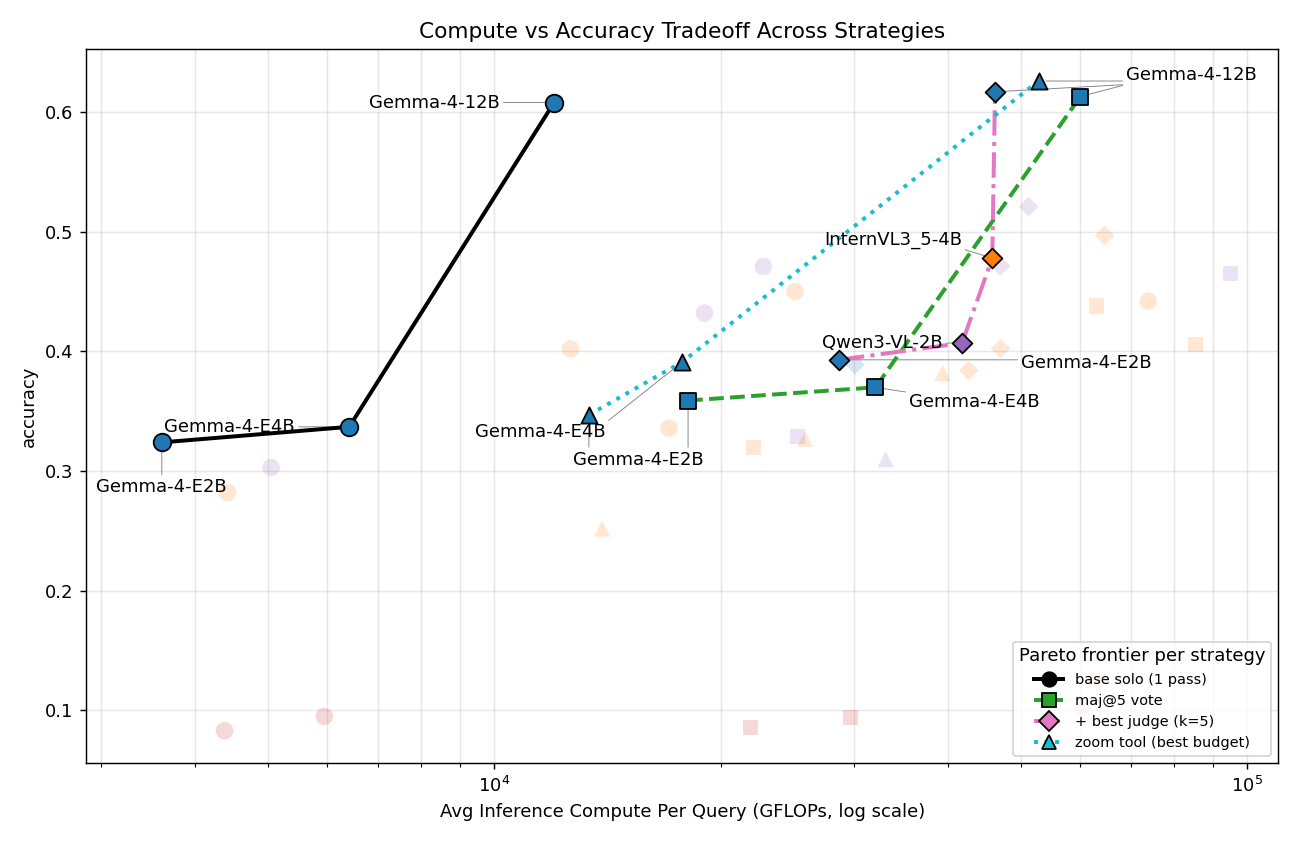
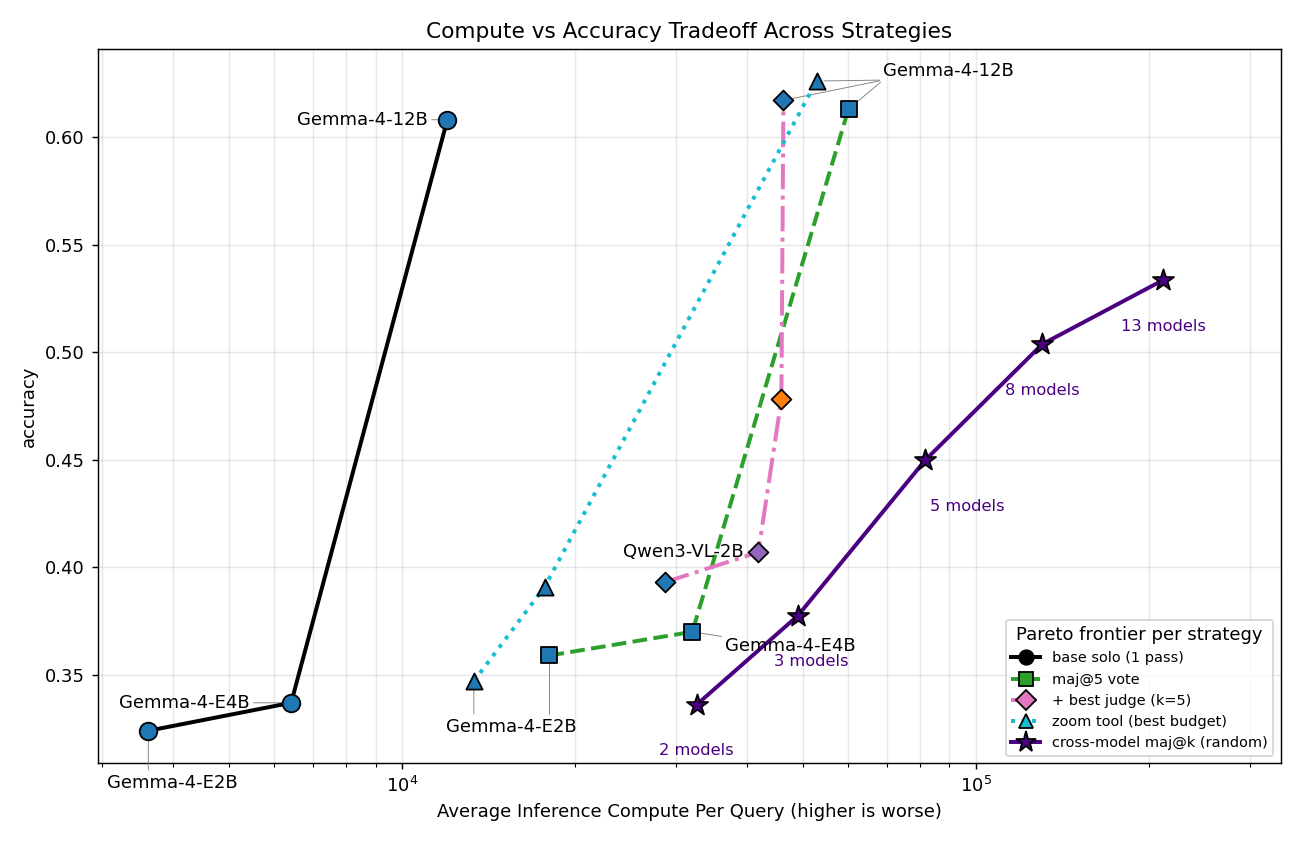
update friontier

diff --git a/report/index.html b/report/index.html
@@ -26,7 +26,7 @@
     table.sum .rowh{min-width:150px}
     table.kv{border-collapse:collapse;margin:.5rem 0} table.kv td,table.kv th{border:1px solid #ccc;padding:4px 12px}
     .grid2{display:flex;gap:1.5rem;flex-wrap:wrap;align-items:flex-start}
-    .example-grid{display:grid;grid-template-columns:minmax(0,3fr) minmax(0,3fr);gap:0.25rem;align-items:start;margin:2rem 0}
+    .example-grid{display:flex;flex-wrap:wrap;justify-content:center;align-items:flex-start;gap:2rem;margin:2rem 0}
     .example-grid figure,.plot-wrap{margin:0;text-align:center}
     .example-grid img{width:100%;max-width:520px;height:205px;object-fit:cover}
     .figcap{max-width:520px;margin:.45rem auto 2rem}
@@ -79,7 +79,7 @@ a:hover{text-decoration-color:#111}
 .note{color:#444;font-style:normal}
 .mx td.diag,.rollout-step{border-color:#111}
 /* show the full CharXiv/CountBench example photos instead of a cropped strip */
-.example-grid img{height:auto;object-fit:contain;max-width:100%;display:block;margin-inline:auto}
+.example-grid img{height:auto;object-fit:contain;max-width:100%;width:auto;display:block;margin-inline:auto}
 /* let the methods diagram span the full text column */
 div:has(> img[src$="methods.svg"]){margin:2rem 0!important}
 div:has(> img[src$="methods.svg"]) img{width:100%;height:auto}
@@ -132,12 +132,12 @@ So that leaves us with open source, local models. In particular, I'm most intere
 
 <div class=example-grid>
     <figure>
-        <img src='figures/charxiv_ex.jpg' style='max-width:520px'>
-        <figcaption class='note figcap'><b>CharXiv:</b> <i>"At epoch 60, which training method has a higher adversarial accuracy?"</i><br><b>Ground truth</b>: Accelerated DAT</figcaption>
+        <img src='figures/charxiv_ex.jpg' style='max-width:440px'>
+        <figcaption class='note figcap' style='max-width:440px'><b>CharXiv:</b> <i>"At epoch 60, which training method has a higher adversarial accuracy?"</i><br><b>Ground truth</b>: Accelerated DAT</figcaption>
     </figure>
     <figure>
-        <img src='figures/countbench_ex.jpg' style='max-width:55%'>
-        <figcaption class='note figcap' style='max-width:55%'><b>CountBench:</b> <i>"How many spoons are there in the image?"</i><br>
+        <img src='figures/countbench_ex.jpg' style='max-width:230px'>
+        <figcaption class='note figcap' style='max-width:230px'><b>CountBench:</b> <i>"How many spoons are there in the image?"</i><br>
             <b>Ground truth: </b>6</figcaption>
     </figure>
 </div>

diff --git a/vlm/combined_tradeoff.py b/vlm/combined_tradeoff.py
@@ -28,6 +28,7 @@ import maj_tradeoff as MJ        # collect -> {model: [(compute,acc) k=1..5]}
 import vision_flops as VF        # vision-encoder GFLOPs
 
 ZOOM_BUDGETS = [2, 4, 8]         # zoom crop budgets swept; per model we keep the best-accuracy one
+MM_KS = [2, 3, 5, 8, 13]         # ensemble sizes plotted for the cross-MODEL random-vote line
 
 DATASETS = ["charxiv", "countbench"]
 FIGDIR = "report/figures/tradeoff"
@@ -68,6 +69,40 @@ def collect_zoom(ds, budgets=ZOOM_BUDGETS):
             if m not in best or acc > best[m][0]:
                 best[m] = (acc, comp)
     return {m: (comp, acc) for m, (acc, comp) in best.items()}
+
+
+def collect_model_majority(ds):
+    """Cross-MODEL random majority-vote line: a few (k, per-query GFLOPs, accuracy) points.
+    Unlike the per-model strategies, this votes ONE base answer from each of k DIFFERENT models
+    (see vlm/model_majority.py). Accuracy at k is maj_at_k_random[k-1] -- the expected vote
+    accuracy over a random k-model subset. Compute is the matching expected per-query cost of k
+    random models = k * (mean single-model whole-dataset GFLOPs) / n_problems."""
+    f = f"vlm/result/model_majority/{ds}/metrics.json"
+    if not os.path.exists(f):
+        return None
+    m = json.load(open(f)); md = m["metadata"]
+    M, P = md.get("n_models"), md.get("n_problems")
+    total = md.get("total_ensemble_gflops")
+    rnd = m.get("maj_at_k_random")
+    if not (M and P and total and rnd):
+        return None
+    per_model = total / M                              # mean single-model whole-dataset GFLOPs
+    return [(k, k * per_model / P, rnd[k - 1]) for k in MM_KS if k <= M]
+
+
+def average_mm(per_ds_mm):
+    """Average the cross-model line across datasets, aligned by ensemble size k."""
+    dss = [d for d in per_ds_mm if per_ds_mm[d]]
+    by_k = {}
+    for d in dss:
+        for k, c, a in per_ds_mm[d]:
+            by_k.setdefault(k, []).append((c, a))
+    out = []
+    for k in MM_KS:
+        vals = by_k.get(k)
+        if vals and len(vals) == len(dss):
+            out.append((k, sum(c for c, _ in vals) / len(vals), sum(a for _, a in vals) / len(vals)))
+    return out
 
 
 def collect(ds):
@@ -112,7 +147,11 @@ COLLAPSE = {
 }
 
 # (strategy, model-substring) label to suppress: the marker/frontier point stays, just no text.
-OMIT_LABELS = [("judge", "Qwen3-VL-4B")]       # declutter the crowded best-judge region
+OMIT_LABELS = [("judge", "Qwen3-VL-4B"),       # declutter the crowded best-judge region
+               ("judge", "InternVL3_5-4B"), ("judge", "gemma-4-E2B"),
+               ("judge", "gemma-4-E4B"),
+               ("zoom", "gemma-4-E4B"), ("zoom", "InternVL3_5-4B"),
+               ("maj5", "InternVL3_5-4B")]
 
 # (strategy, model-substring) -> which side of the marker the label sits on ("left"/"right"),
 # overriding the defaults (judge -> left, everything else -> right of the point).
@@ -126,6 +165,8 @@ LABEL_SIDE = {
 # gap-factor is the log-x divisor/multiplier -> smaller = closer to the marker.
 LABEL_PIN = {
     ("judge", "Qwen3-VL-2B"): ("left", 1.06),
+    ("judge", "Qwen3-VL-8B"): ("left", 1.05),      # snug to the left of its diamond
+    ("maj5", "Qwen3-VL-2B"): ("left", 1.05),       # snug to the left of its square
 }
 # extra vertical nudge (accuracy units, +up/-down) for specific labels, applied after side placement.
 LABEL_DY = {
@@ -133,7 +174,7 @@ LABEL_DY = {
 }
 
 
-def render(ds, data, title=None, ymin=None):
+def render(ds, data, title=None, ymin=None, mm=None):
     fig, ax = plt.subplots(figsize=(10, 6.5))
     order = sorted(data, key=lambda m: (R.FAM_ORDER.get(R.family(m), 4), R.size(m)))
 
@@ -155,12 +196,12 @@ def render(ds, data, title=None, ymin=None):
             v = data[m][key]
             if v is None:
                 continue
-            on = m in onfr
-            ax.scatter(v[0], v[1], s=sz, marker=mk, alpha=FULL if on else FADED,
-                       zorder=5 if on else 3, color=T.fam_color(m),
-                       edgecolor="k" if on else "none")
+            if m not in onfr:             # only draw on-frontier points; hide the rest entirely
+                continue
+            ax.scatter(v[0], v[1], s=sz, marker=mk, alpha=FULL,
+                       zorder=5, color=T.fam_color(m), edgecolor="k")
             pxs.append(v[0]); pys.append(v[1])
-            if on:                        # label only the models on this frontier
+            if True:                      # label only the models on this frontier
                 # collapsed models: stash each near-coincident point; one shared label is built
                 # after the loop at the centroid, with a leader line fanning out to every point.
                 rule = next((keys for sub, keys in COLLAPSE.items() if sub in m), None)
@@ -168,12 +209,19 @@ def render(ds, data, title=None, ymin=None):
                     collapse_pts.setdefault(m, []).append((v[0], v[1]))
                     continue
                 # base labels are PINNED to the left of the far-left frontier line (kept out of
-                # adjust_text, which otherwise bounces the edge ones back to the right). gemma-4-E2B
-                # sits at the very left edge with no room, so it goes just BELOW its marker instead.
+                # adjust_text, which otherwise bounces the edge ones back to the right). The two
+                # left-edge models (gemma-4-E2B, Qwen3-VL-2B) have no room on the left, so they go
+                # to the RIGHT of their markers (below / above-right) to stay on the plot.
                 if key == "base":
                     if "gemma-4-E2B" in m:
-                        txt = ax.text(v[0], v[1] - 0.03, name(m), fontsize=10,
+                        txt = ax.text(v[0] * 1.1, v[1] - 0.02, name(m), fontsize=10,
                                       ha="center", va="top", zorder=6)
+                    elif "Qwen3-VL-2B" in m:
+                        txt = ax.text(v[0] / 1.02, v[1] + 0.015, name(m), fontsize=10,
+                                      ha="right", va="bottom", zorder=6)
+                    elif "gemma-4-12B" in m:
+                        txt = ax.text(v[0] / 1.08, v[1], name(m), fontsize=10,
+                                      ha="right", va="center", zorder=6)
                     else:
                         txt = ax.text(v[0] / 1.18, v[1], name(m), fontsize=10,
                                       ha="right", va="center", zorder=6)
@@ -187,11 +235,18 @@ def render(ds, data, title=None, ymin=None):
                             if key == k and sub in m), None)
                 if pin is not None:
                     side, fac = pin
+                    pdy = next((d for (k, sub), d in LABEL_DY.items() if key == k and sub in m), 0.0)
+                    if side == "down":                       # fac = vertical gap in accuracy units
+                        txt = ax.text(v[0], v[1] - fac, name(m), fontsize=10,
+                                      ha="center", va="top", zorder=6)
+                        leader.append((txt, [(v[0], v[1])]))
+                        pxs.append(v[0]); pys.append(v[1] - fac)
+                        continue
                     x = v[0] / fac if side == "left" else v[0] * fac
-                    txt = ax.text(x, v[1], name(m), fontsize=10,
+                    txt = ax.text(x, v[1] + pdy, name(m), fontsize=10,
                                   ha="right" if side == "left" else "left", va="center", zorder=6)
                     leader.append((txt, [(v[0], v[1])]))
-                    pxs.append(x); pys.append(v[1])
+                    pxs.append(x); pys.append(v[1] + pdy)
                     continue
                 # judge labels start on the LEFT of their marker (that side is less crowded);
                 # adjust_text refines from there, leader lines re-anchored to the marker below.
@@ -223,13 +278,35 @@ def render(ds, data, title=None, ymin=None):
             t = np.linspace(0, 1, 12)
             pxs.extend(10 ** (np.log10(x0) + t * (np.log10(x1) - np.log10(x0))))
             pys.extend(y0 + t * (y1 - y0))
+    # cross-MODEL random majority-vote line: a separate k-sweep (2..13 random models voting), not a
+    # per-model strategy, so it gets its own brown star line + one "k models" tag per point.
+    if mm:
+        mxs = [c for _, c, _ in mm]; mys = [a for _, _, a in mm]
+        ax.plot(mxs, mys, "-", color="#4b0082", lw=2.2, zorder=4)
+        ax.scatter(mxs, mys, s=150, marker="*", color="#4b0082", edgecolor="k", zorder=5)
+        handles.append(Line2D([], [], marker="*", color="#4b0082", ls="-", mec="k", ms=12, lw=2.2,
+                              label="cross-model maj@k (random)"))
+        for k, c, a in mm:
+            if k == 3:
+                dx, ha = 0.91, "left"      # 3-models: slight left of its old spot
+            elif k == 5:
+                dx, ha = 1.02, "left"      # 5-models: half a hair right
+            else:
+                dx, ha = 1.0, "center"
+            ax.text(c * dx, a - 0.018, f"{k} models", fontsize=9, ha=ha, va="top",
+                    color="#4b0082", zorder=6)
+        pxs.extend(mxs); pys.extend(mys)          # register as obstacles for label placement
+
     ax.legend(handles=handles, fontsize=8, loc="lower right", title="Pareto frontier per strategy")
     ax.set_xscale("log")
-    ax.set_xlabel("Avg Inference Compute Per Query (GFLOPs, log scale)")
+    ax.set_xlabel("Average Inference Compute Per Query (higher is worse)")
     ax.set_ylabel("accuracy")
     ax.set_title(title or "Compute vs Accuracy Tradeoff Across Strategies")
     ax.grid(alpha=0.3, which="both")
-    ax.set_xlim(right=1.1e5)         # cut the x-axis off around 10^5 (all frontier points sit well left)
+    right = 1.1e5                    # cut the x-axis off around 10^5 (all frontier points sit well left)
+    if mm:                           # ...but leave room for the cross-model line's high-k points
+        right = max(right, max(c for _, c, _ in mm) * 1.6)
+    ax.set_xlim(right=right)
     if ymin is not None:
         ax.set_ylim(bottom=ymin)
 
@@ -245,7 +322,7 @@ def render(ds, data, title=None, ymin=None):
             txt = ax.text(xlab, ylab, name(m), fontsize=10, ha="left", va="center", zorder=6)
         else:                                        # default: just below the cluster
             xlab = 10 ** (sum(np.log10(p[0]) for p in pts) / len(pts))
-            ylab = min(p[1] for p in pts) - 0.03
+            ylab = min(p[1] for p in pts) - 0.017
             txt = ax.text(xlab, ylab, name(m), fontsize=10, ha="center", va="top", zorder=6)
         leader.append((txt, pts))
         pxs.append(xlab); pys.append(ylab)
@@ -293,16 +370,18 @@ def average(per_ds):
 
 def main():
     os.makedirs(FIGDIR, exist_ok=True)
-    per_ds = {}
+    per_ds, per_ds_mm = {}, {}
     for ds in DATASETS:
         data = collect(ds)
         if not data:
             print(f"[{ds}] no data"); continue
         per_ds[ds] = data
-        print(f"  -> wrote {render(ds, data)}")
+        per_ds_mm[ds] = collect_model_majority(ds)
+        print(f"  -> wrote {render(ds, data, mm=per_ds_mm[ds])}")
     if len(per_ds) == len(DATASETS):
         avg = average(per_ds)
-        out = render("avg", avg, title="Compute vs Accuracy Tradeoff Across Strategies", ymin=0.35)
+        out = render("avg", avg, title="Compute vs Accuracy Tradeoff Across Strategies", ymin=0.35,
+                     mm=average_mm(per_ds_mm))
         print(f"  -> wrote {out}")
 
 
